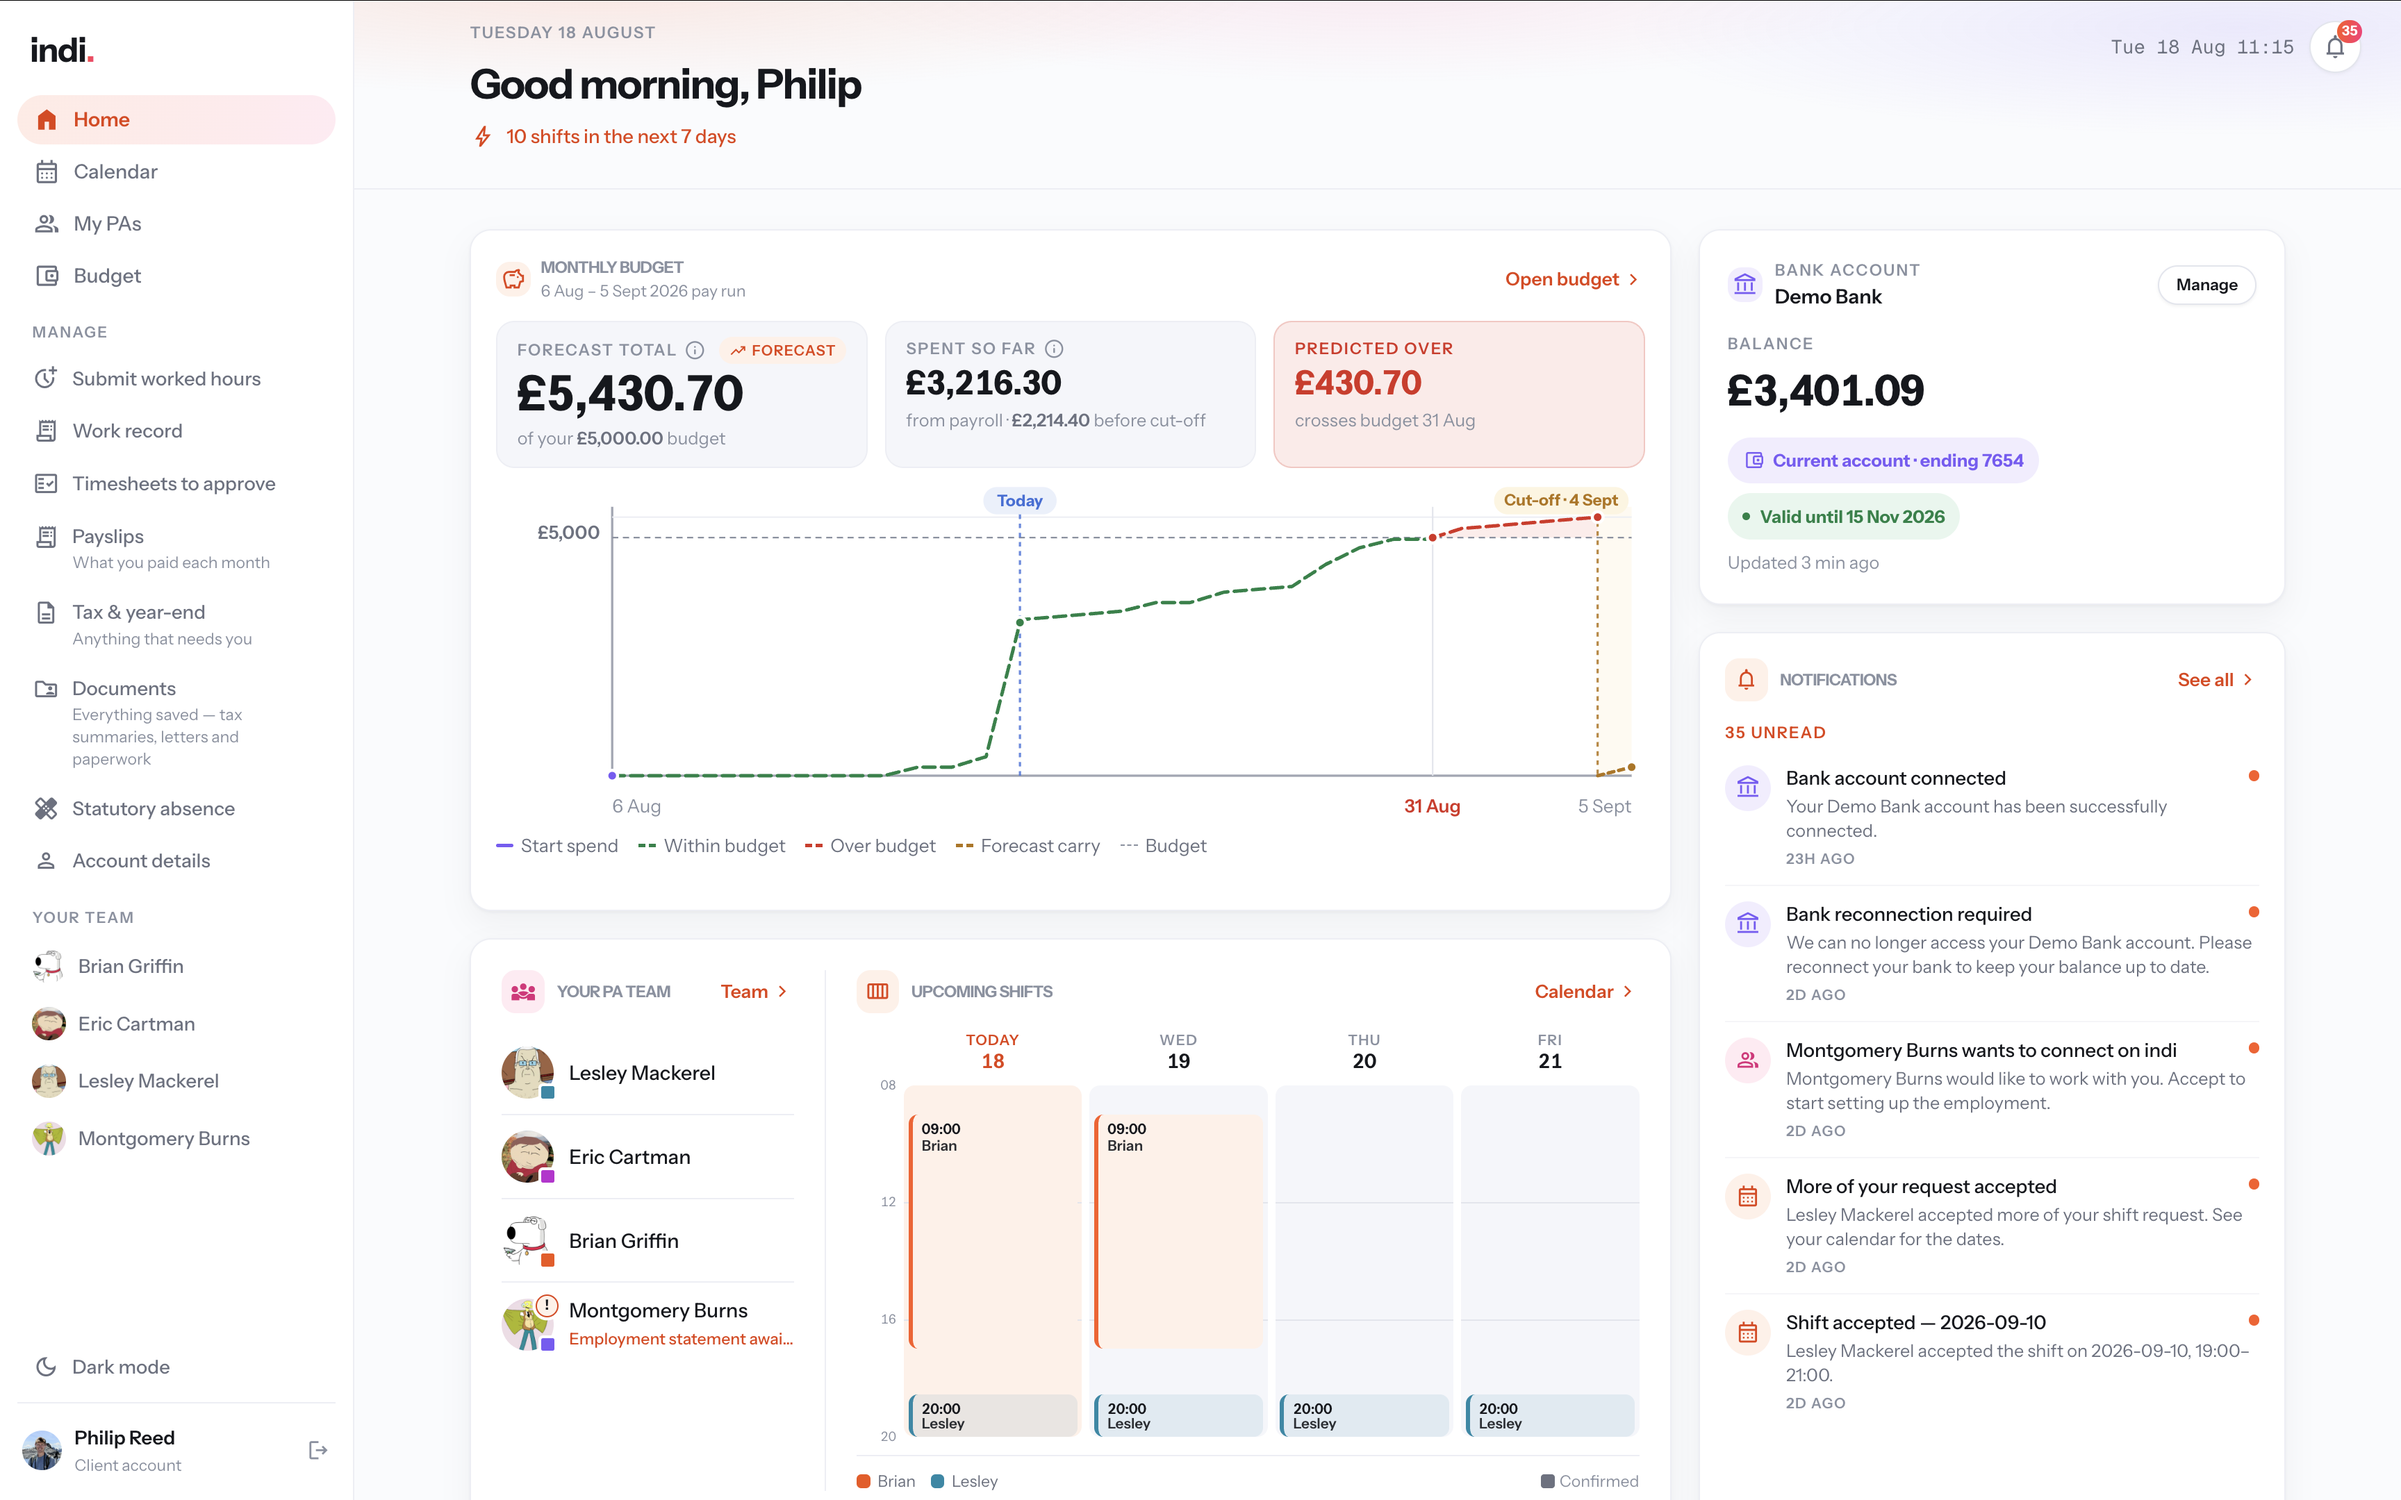
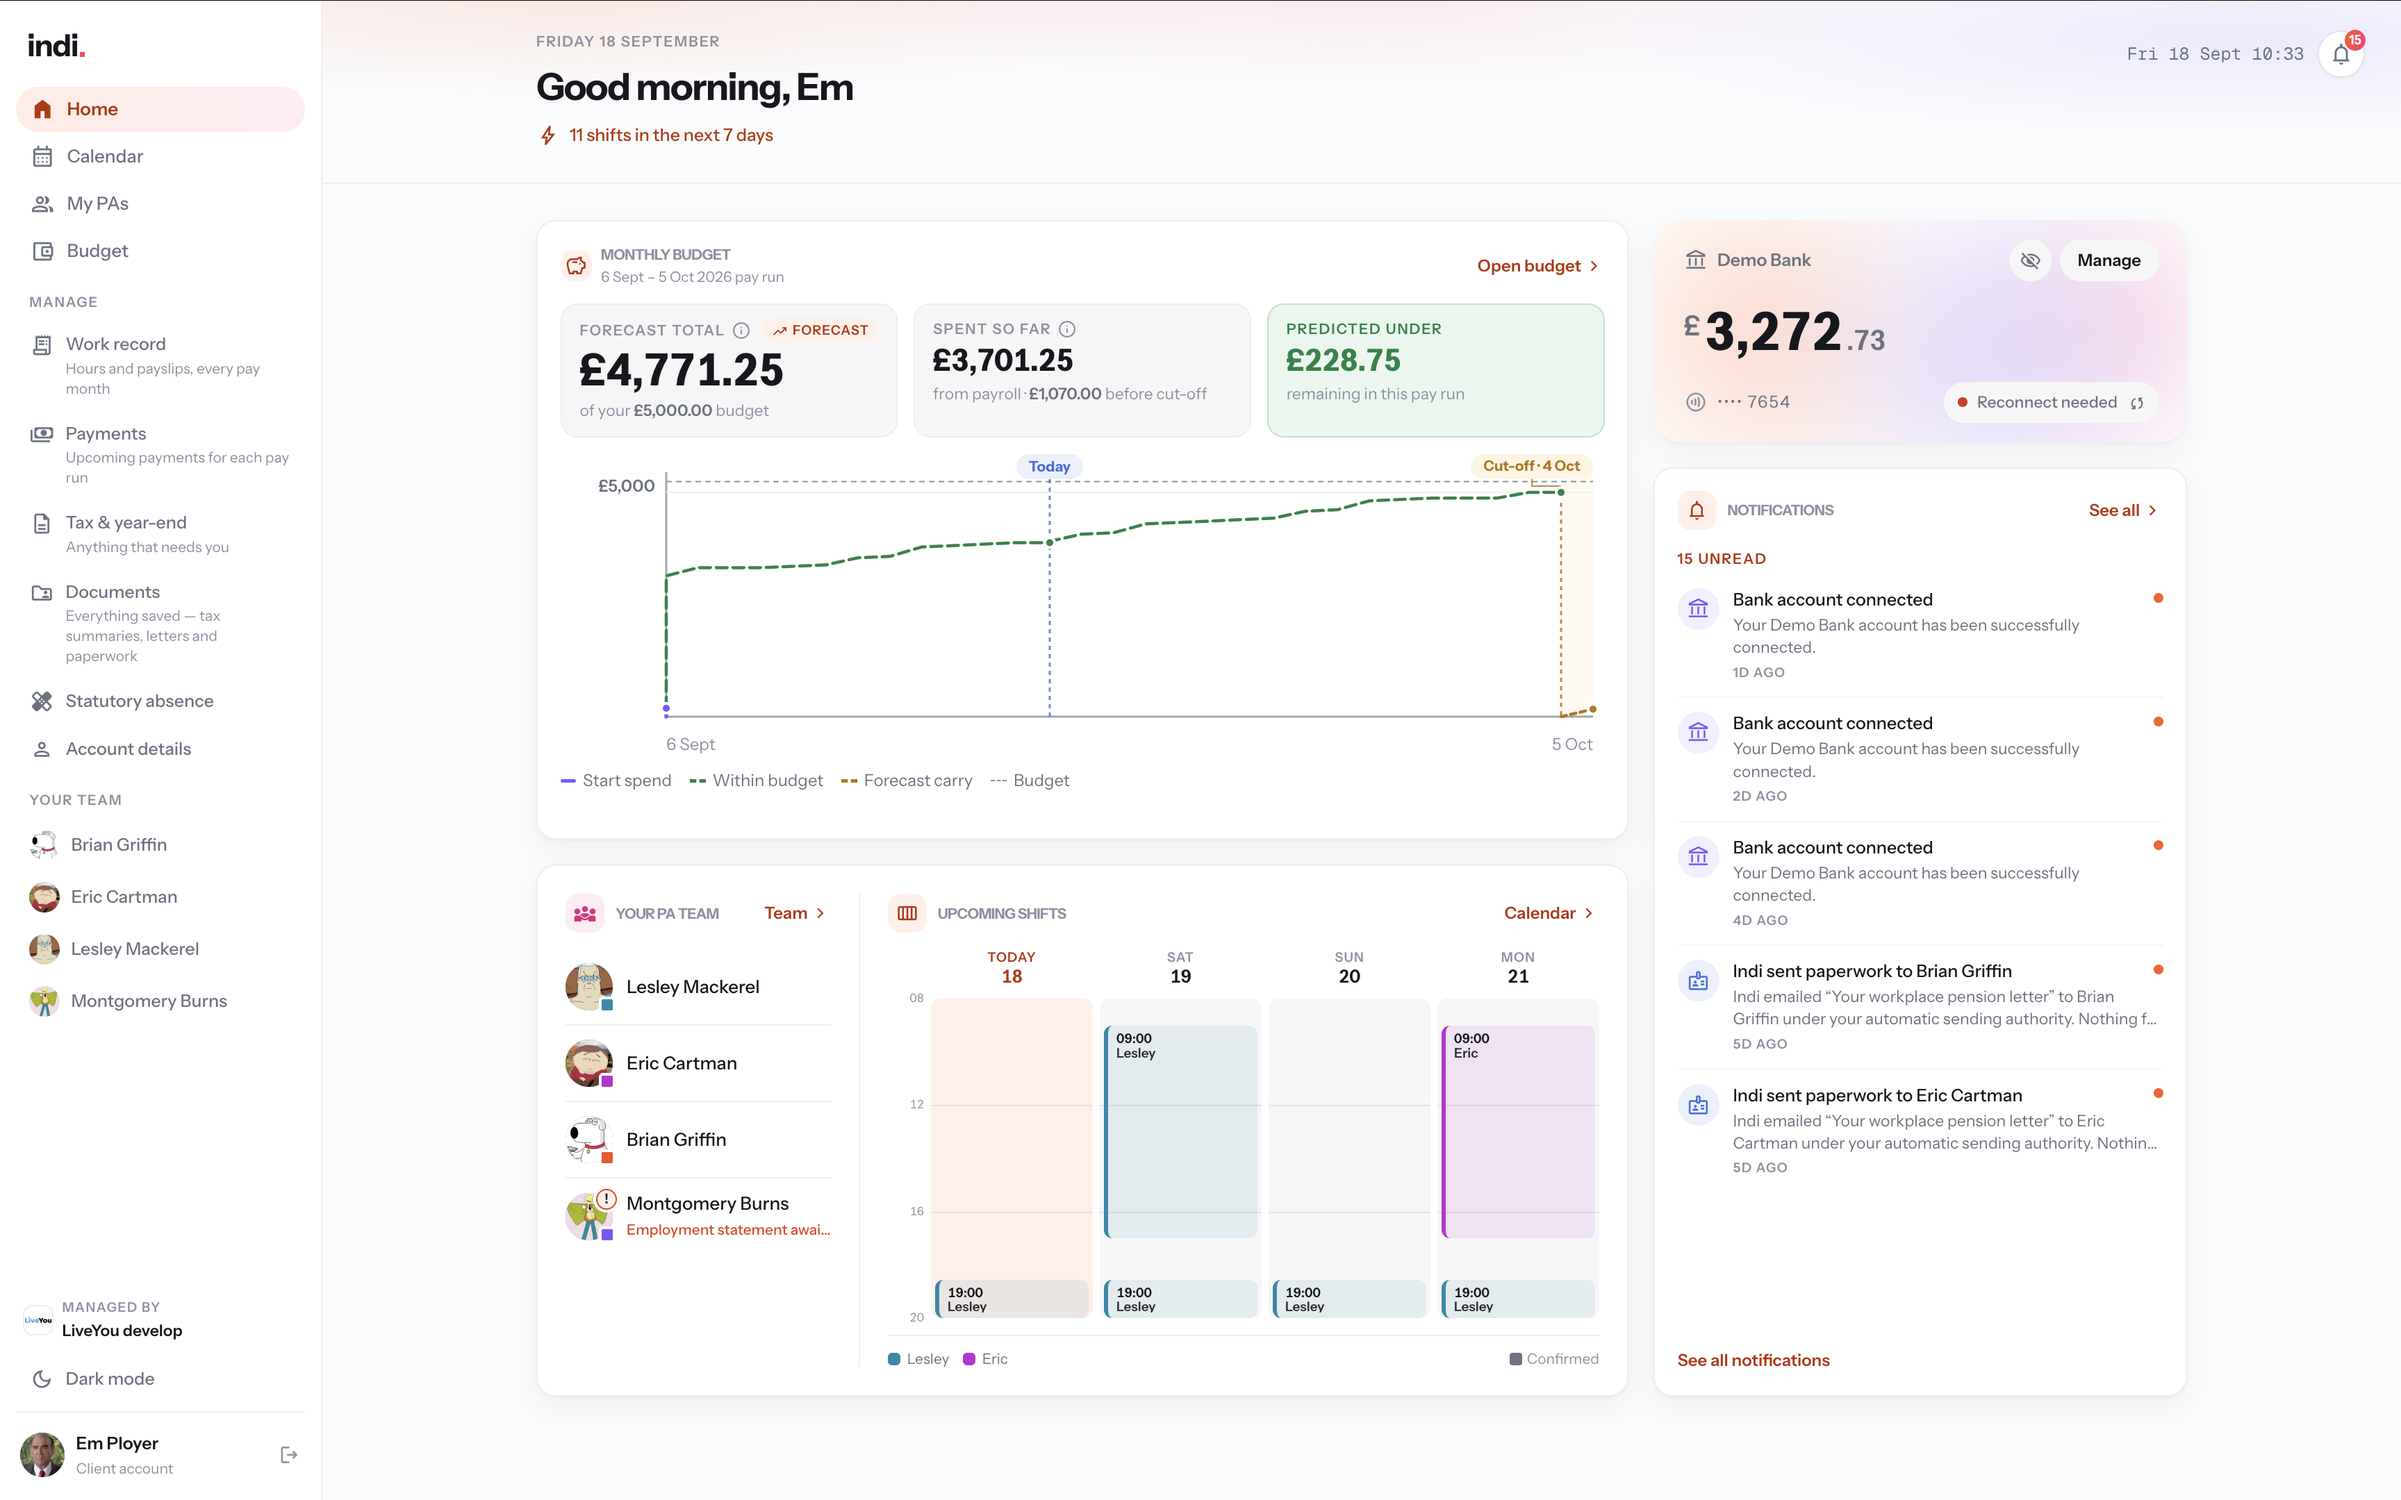
Update Indi portfolio screenshot and add website link

diff --git a/app/portfolio/page.tsx b/app/portfolio/page.tsx
@@ -11,7 +11,8 @@ const projects = [
     summary:
       "A modern care platform that brings budget management and Personal Assistant coordination together. Indi replaces fragmented tools with clear financial oversight and simple communication. Built to grow alongside real-world care needs.",
     tags: ["Web App", "Next.js", "Serverless", "Cloud"],
-    image: { src: "/images/indi.png", alt: "Indi personal care platform dashboard." },
+    image: { src: "/images/indi.png", alt: "Indi home dashboard showing the monthly care budget, PA team, upcoming shifts and notifications." },
+    website: { href: "https://www.indicare.app", label: "Visit indicare.app" },
     details:
       "Indi is an all in one personal care management platform designed to give clients with disabilities clarity, control, and confidence over their personal assistants, payroll, care budgets and support networks.\n\nThe app brings together financial oversight and human coordination in one place. Clients can track their care budget in real time, understand where money is being spent, and manage payments, payslips and HMRC compliance without barriers. At the same time, they can meet, organise, and communicate with Personal Assistants, keeping day-to-day care simple and transparent.\n\nIndi focuses on calm, readable design and practical workflows: clear budget visualisation, straightforward payment history, and intuitive contact and group management. Rather than overwhelming users with complexity, it surfaces the information that matters most, when it matters.\n\nBuilt as a foundation for long-term growth, the platform is designed to evolve alongside changing care needs- supporting ongoing development, new features, and deeper integrations without locking users into rigid systems.",
   },

diff --git a/components/PortfolioTile.tsx b/components/PortfolioTile.tsx
@@ -11,6 +11,7 @@ export type PortfolioProject = {
   summary: string;
   tags: readonly string[];
   image: { src: string; alt: string };
+  website?: { href: string; label: string };
   details?: string;
 };
 
@@ -87,6 +88,21 @@ export default function PortfolioTile({
             </svg>
           </span>
         </button>
+
+        {project.website ? (
+          <div className="px-6 pb-6 md:px-8 md:pb-8">
+            <a
+              href={project.website.href}
+              target="_blank"
+              rel="noopener noreferrer"
+              className="inline-flex items-center gap-2 text-[11px] uppercase tracking-[0.18em] text-ink underline decoration-ink/40 underline-offset-4 transition-colors hover:decoration-ink focus-visible:outline focus-visible:outline-2 focus-visible:outline-offset-4 focus-visible:outline-ink"
+            >
+              {project.website.label}
+              <span aria-hidden="true">↗</span>
+              <span className="sr-only"> (opens in a new tab)</span>
+            </a>
+          </div>
+        ) : null}
 
         <AnimatePresence initial={false}>
           {expanded ? (
